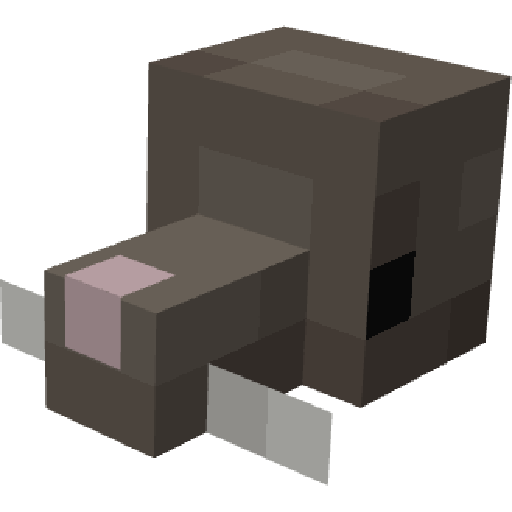
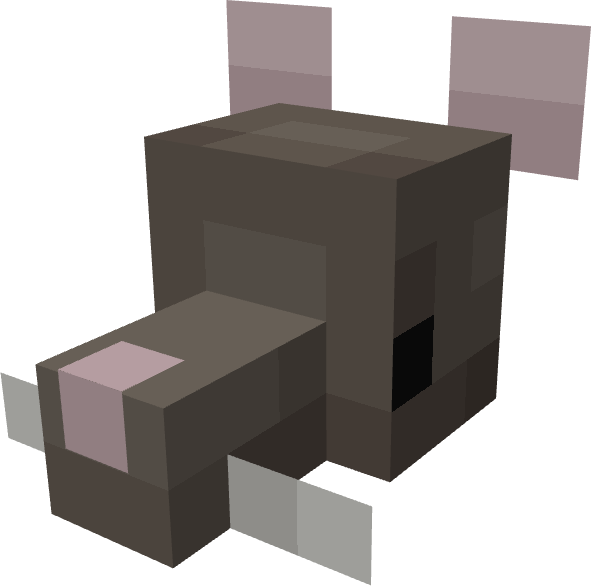
feat: Halloween New Quests + Week 3 Missions

diff --git a/src/routes/BestiaryPage.tsx b/src/routes/BestiaryPage.tsx
@@ -219,10 +219,10 @@ const BestiaryPage: FC = () => {
                     </div>
                 </div>
 
-                <div className="mt-2 flex justify-end">
+                <div className="mx-auto mt-2 flex justify-end">
                     <Link
                         to={`/mappage?selectedMap=${encodeURIComponent(island)}`}
-                        className="inline-flex items-center gap-2 bg-green-600 hover:bg-green-700 text-white px-3 py-1 rounded text-sm max-w-full break-words"
+                        className="mx-auto inline-flex items-center gap-2 bg-green-600 hover:bg-green-700 text-white px-3 py-1 rounded text-sm max-w-full break-words"
                     >
                         <Eye/> {t("bestiary.openInteractiveMap", { ns: "bestiary", defaultValue: "Open Interactive Map" })}
                     </Link>
@@ -430,19 +430,14 @@ const BestiaryPage: FC = () => {
                                         )}
                                     </div>
 
-                                    <div className="flex-1">
+                                    <div className="flex-1 my-auto">
                                         <span className="flex flex-row justify-between align-center items-center">
                                         <h3 className="text-2xl font-bold text-white">{t(selectedMob.mob.name)}</h3>
-                                        <h3 className="text-2xl font-bold text-white">{t(selectedMob.mob.name)}</h3>
+                                        <h3 className="text-2xl font-semibold text-white">{t("MAP_NAME")}</h3>
                                         </span>
-                                        {
-                                        selectedMob.regionKey && (
-                                            <div className="text-sm text-gray-300 mt-1">
-                                                {t(mapNameRegions[selectedMob.regionKey] ?? selectedMob.regionKey, { ns: "map", defaultValue: selectedMob.regionKey })}
-                                            </div>
-                                        )}
 
-                                        <div className="mt-2 flex items-center gap-3">
+                                        <div className="flex items-center gap-3 justify-between align-center items-center">
+                                            <span className="flex flex-row gap-1">
                                             <span className={`${LevelBG_Gradient(selectedMob.mob.minlevel)} ${LevelTextColor(selectedMob.mob.minlevel)} px-2 py-0 rounded-sm text-[11px] font-semibold`}>
                                                 Lvl {selectedMob.mob.minlevel}-{selectedMob.mob.maxlevel}
                                             </span>
@@ -452,10 +447,18 @@ const BestiaryPage: FC = () => {
                                             {selectedMob.mob.boss && (
                                                 <span className="uppercase px-2 py-0 rounded text-[10px] bg-yellow-600 bg-opacity-50 border font-bold border-yellow-600 w-fit">{t("boss", { ns: "bestiary" })}</span>
                                             )}
+                                            </span>
+                                            
+                                        {
+                                        selectedMob.regionKey && (
+                                            <div className="text-sm text-gray-300 mt-1">
+                                                {t(mapNameRegions[selectedMob.regionKey] ?? selectedMob.regionKey, { ns: "map", defaultValue: selectedMob.regionKey })}
+                                            </div>
+                                        )}
                                         </div>
 
-                                        <div className="mt-2">
-                                            <div className="text-xs bg-red-700/60 border-red-700/80 border rounded text-center py-1 text-white font-medium w-max">
+                                        <div className="mt-2 w-full">
+                                            <div className="w-full text-xs bg-red-700/60 border-red-700/80 border rounded text-center py-1 text-white font-medium">
                                                 {selectedMob.mob.minhealth?.toLocaleString?.() ?? 0} - {selectedMob.mob.maxhealth?.toLocaleString?.() ?? 0}
                                             </div>
                                             <div className="mt-2 text-[12px] text-gray-300">

diff --git a/src/routes/Halloween2025.tsx b/src/routes/Halloween2025.tsx
@@ -1616,13 +1616,13 @@ const HalloweenPage: FC = () => {
                 </div>
             </div>
 
-            <div className="grid grid-cols-2 xl:grid-cols-4 lg:grid-cols-3 md:grid-cols-2 sm:grid-cols-3 gap-2 gap-2 mt-4">
+            <div className="grid grid-cols-2 xl:grid-cols-6 lg:grid-cols-3 md:grid-cols-2 sm:grid-cols-3 gap-2 gap-2 mt-4">
                 {halloweenMobs.map((mob, index) => (
                     <a
                         key={(mob.name || "mob") + index}
                         className={`block w-full bg-gray-700 text-white p-3 rounded transition-colors hover:bg-gray-600 whitespace-nowrap text-center border-l-4 border-gray-600 `}
                     >
-                        <span className="flex flex-row items-center gap-2">
+                        <span className="flex flex-col items-center gap-2">
                             <img
                                 src={
                                     mob.image ??

diff --git a/src/components/map/bestiaryData.ts b/src/components/map/bestiaryData.ts
@@ -64,11 +64,10 @@ export const bestiaryData: Record<string, Record<string, BestiaryInfo[]>> = {
             },
         ],
         small_island: [
-            
-
+        
             {
                 name: "bestiary.halloween_pumpkin",
-                image: "assets/media/museum/not-found.png",
+                image: "assets/media/EVENT/HALLOWEEN/Bestiary/Haunted_Pumpkin.png",
                 minlevel: 35,
                 maxlevel: 40,
                 minhealth:900,
